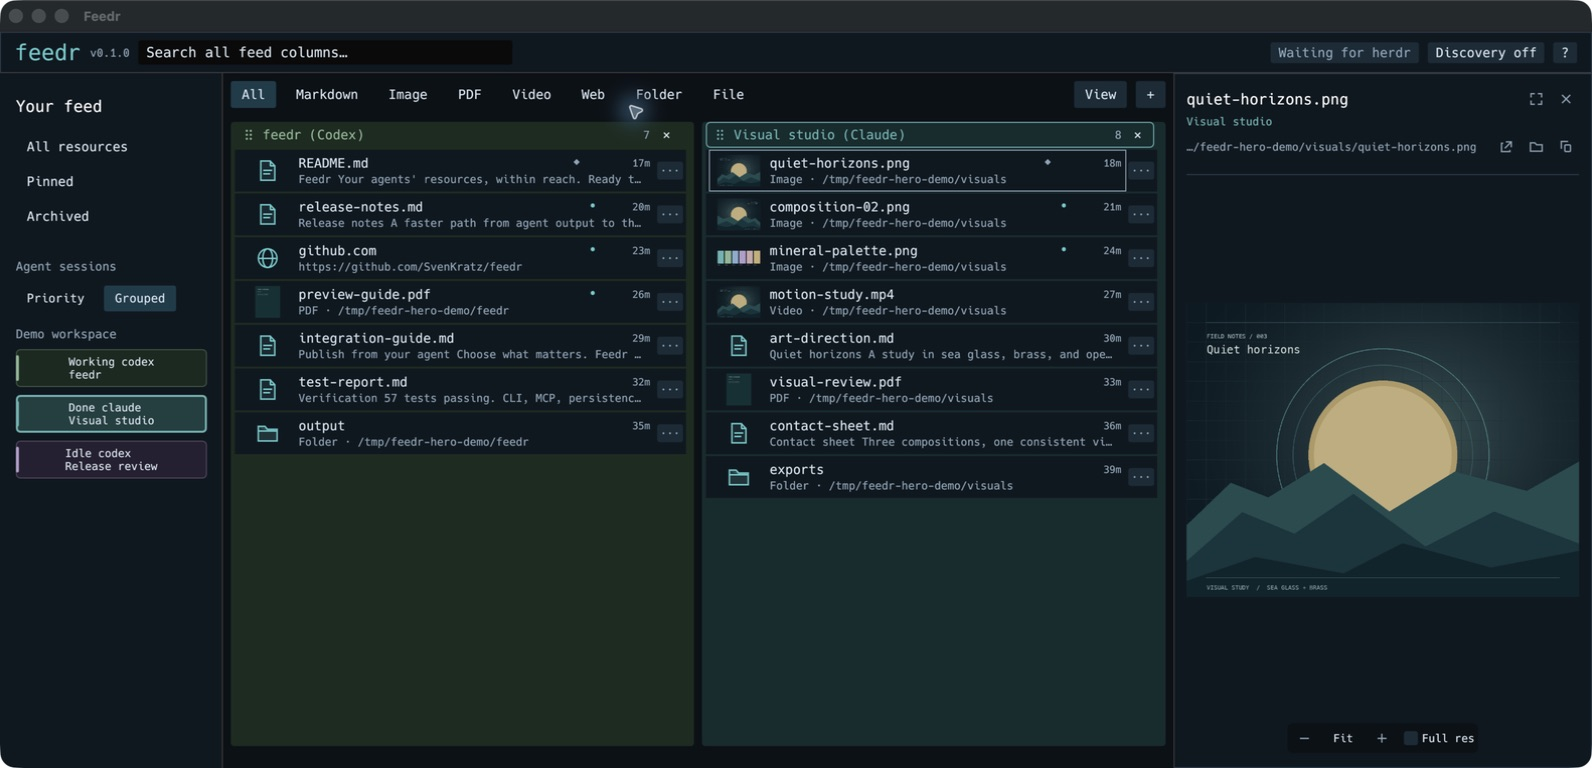
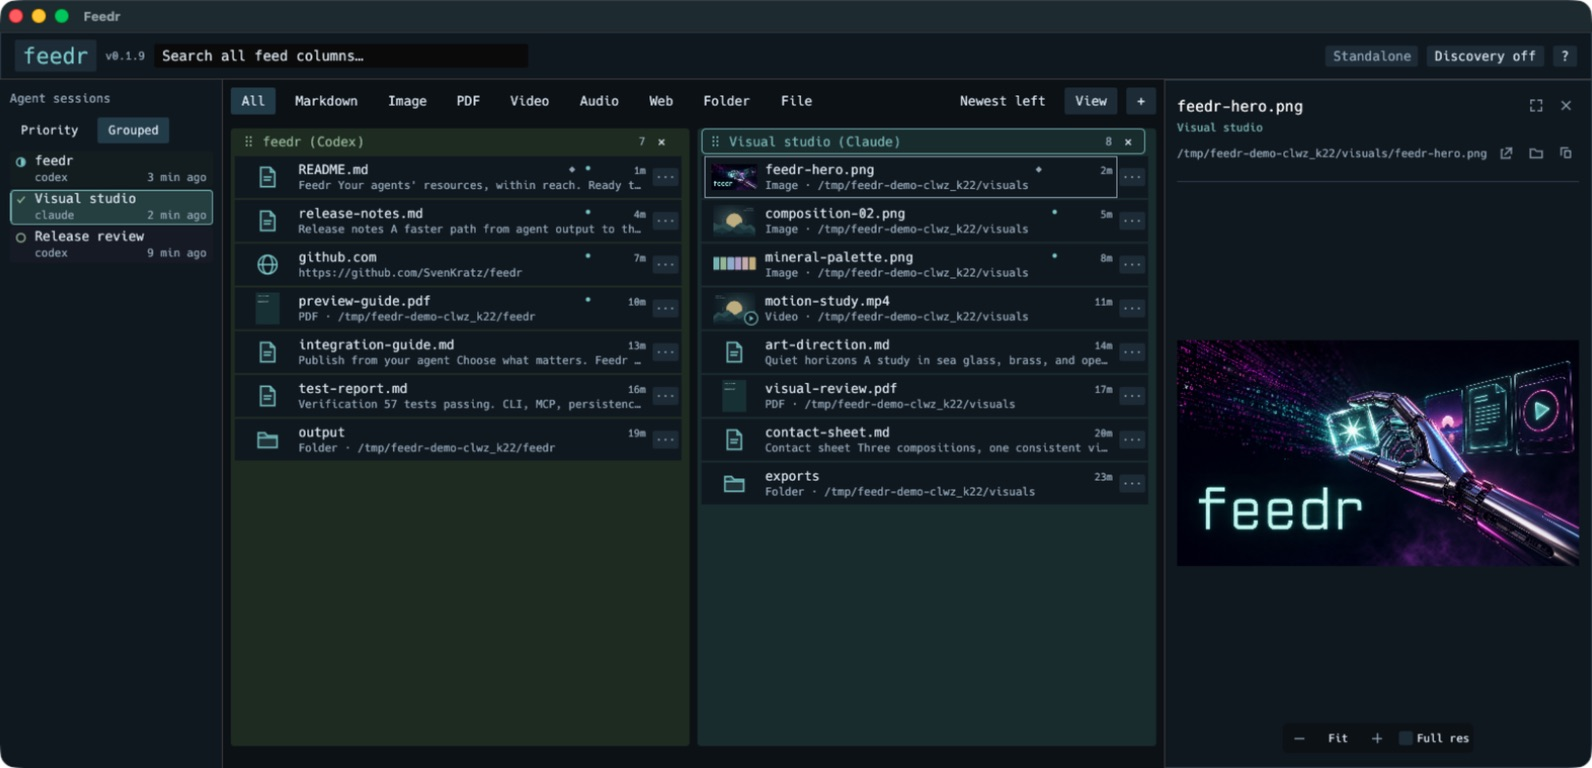
Refresh README screenshot with current UI and synthwave hero

Changed region(s): [[0.0, 0.0625, 1.0, 0.9688], [0.831, 0.9375, 0.9234, 0.9688], [0.0, 0.0, 0.0923, 0.0312]]

diff --git a/README.md b/README.md
@@ -2,9 +2,9 @@
 
 A dark, terminal-inspired native Rust desktop feed for agent deliverables. Feedr puts reports, media, builds and preview links in compact, session-colored columns so you can open them without copying paths from a terminal. It works directly with Claude Code and Codex; [herdr](https://herdr.dev) adds live session tracking and optional mention discovery.
 
-![Feedr's native desktop UI with two session-colored feed columns, compact artifact rows, and an image open in the sidebar.](docs/assets/feedr-hero.png)
+![Feedr's current native desktop UI with compact session rows, two session-colored feed columns, and the synthwave launch artwork open in the preview sidebar.](docs/assets/feedr-hero.png)
 
-*Native macOS app with demo sessions and artifacts.*
+*Native macOS development build with synthetic demo sessions and sample artifacts.*
 
 This public preview includes a persistent SQLite-backed service, live herdr sessions, MCP/CLI publishing, search and filters, pins/archive/read state, built-in image/Markdown/PDF/video previews, native open/reveal actions, and optional deterministic mention discovery. Remote artifact transfer, tray notifications and the public viewer contribution API are still planned.
 
